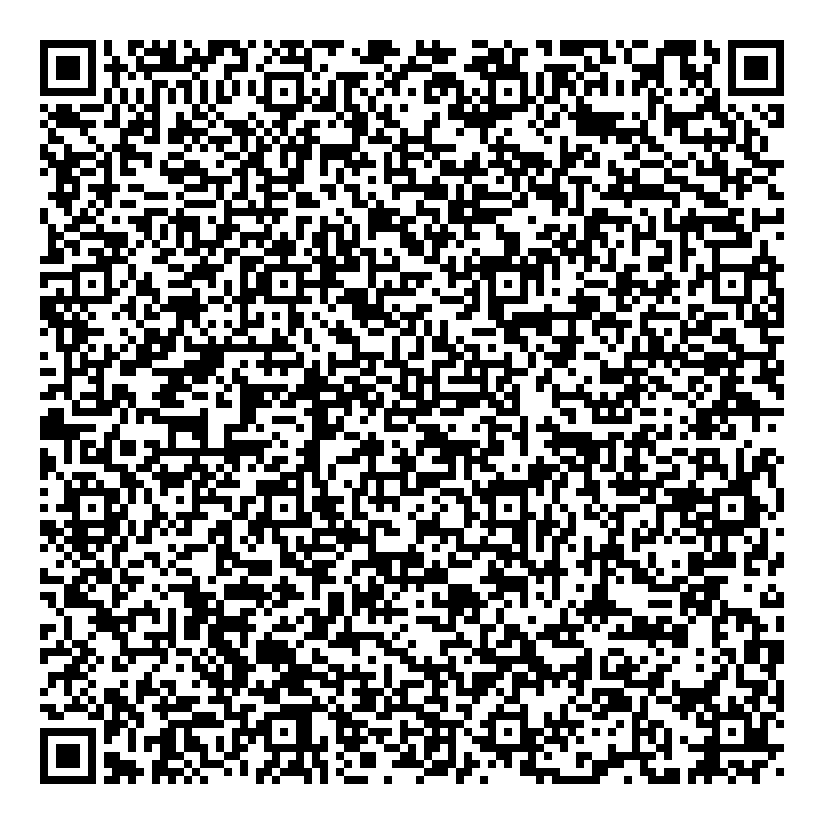
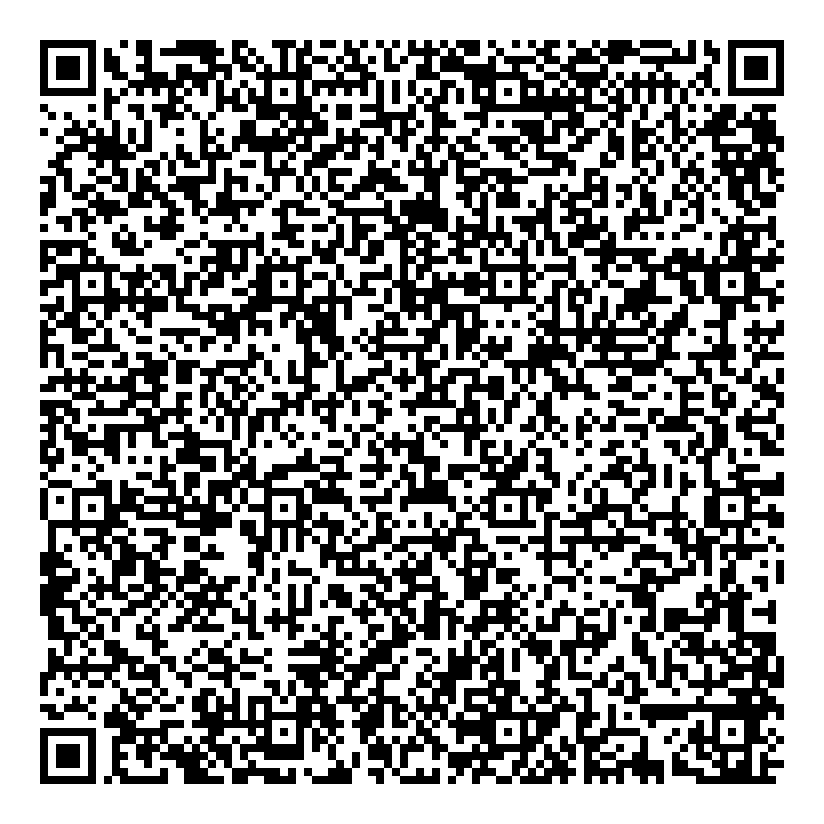
Publish partner-ready Agent 1.1.0

diff --git a/src/pages/PhoneControlPage.jsx b/src/pages/PhoneControlPage.jsx
@@ -227,13 +227,13 @@ function FieldProvisioningCard() {
           <h3 className="text-sm font-black text-slate-900">Factory setup QR</h3>
           <p className="mt-1 text-xs leading-5 text-slate-500">Reusable Device Owner setup for factory-reset Android phones.</p>
         </div>
-        <span className="shrink-0 rounded-full bg-emerald-100 px-2 py-1 text-[10px] font-bold text-emerald-700">Remote Agent {release.versionName}</span>
+        <span className="shrink-0 rounded-full bg-emerald-100 px-2 py-1 text-[10px] font-bold text-emerald-700">Agent {release.versionName}</span>
       </div>
 
       <div className="mt-4 rounded-xl border border-slate-200 bg-slate-50 p-3 text-center">
         <img
           src={release.qrImagePath}
-          alt="Remote Agent Android Device Owner provisioning QR code"
+          alt="Agent Android Device Owner provisioning QR code"
           className="mx-auto aspect-square w-full max-w-[220px] rounded-lg bg-white"
         />
       </div>
@@ -241,7 +241,7 @@ function FieldProvisioningCard() {
       <ol className="mt-4 space-y-2 text-xs leading-5 text-slate-600">
         <li><span className="font-bold text-slate-800">1.</span> Factory-reset the phone and stop at the first Welcome screen.</li>
         <li><span className="font-bold text-slate-800">2.</span> Tap the same empty area six times, then connect to Wi-Fi.</li>
-        <li><span className="font-bold text-slate-800">3.</span> Scan this QR and wait for Android to install Remote Agent.</li>
+        <li><span className="font-bold text-slate-800">3.</span> Scan this QR and wait for Android to install Agent.</li>
         <li><span className="font-bold text-slate-800">4.</span> Enter the one-time kiosk code created below.</li>
       </ol>
 
@@ -1072,7 +1072,7 @@ export default function PhoneControlPage({
 
               {isAdmin && <div className="rounded-xl border border-slate-200 bg-white p-4 shadow-sm">
                 <h3 className="text-sm font-black text-slate-900">Enroll a kiosk phone</h3>
-                <p className="mt-1 text-xs leading-5 text-slate-500">Create a one-time code tied to a kiosk, then enter it in Remote Agent.</p>
+                <p className="mt-1 text-xs leading-5 text-slate-500">Create a one-time code tied to a kiosk, then enter it in Agent.</p>
                 <div className="mt-3 grid grid-cols-3 rounded-lg bg-slate-100 p-1" role="group" aria-label="Enrollment kiosk country">
                   {PHONE_KIOSK_COUNTRIES.map((country) => (
                     <button

diff --git a/src/version.js b/src/version.js
@@ -1,1 +1,1 @@
-export const VERSION = '1.61';
+export const VERSION = '1.62';
